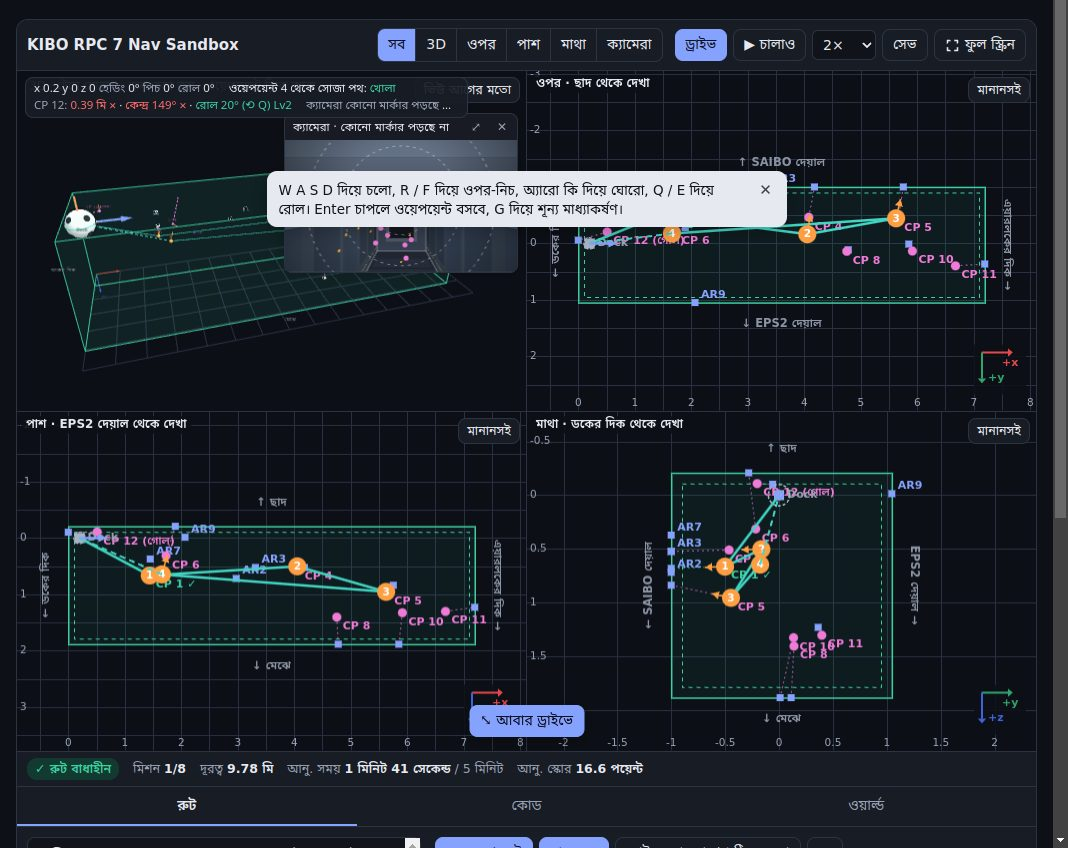
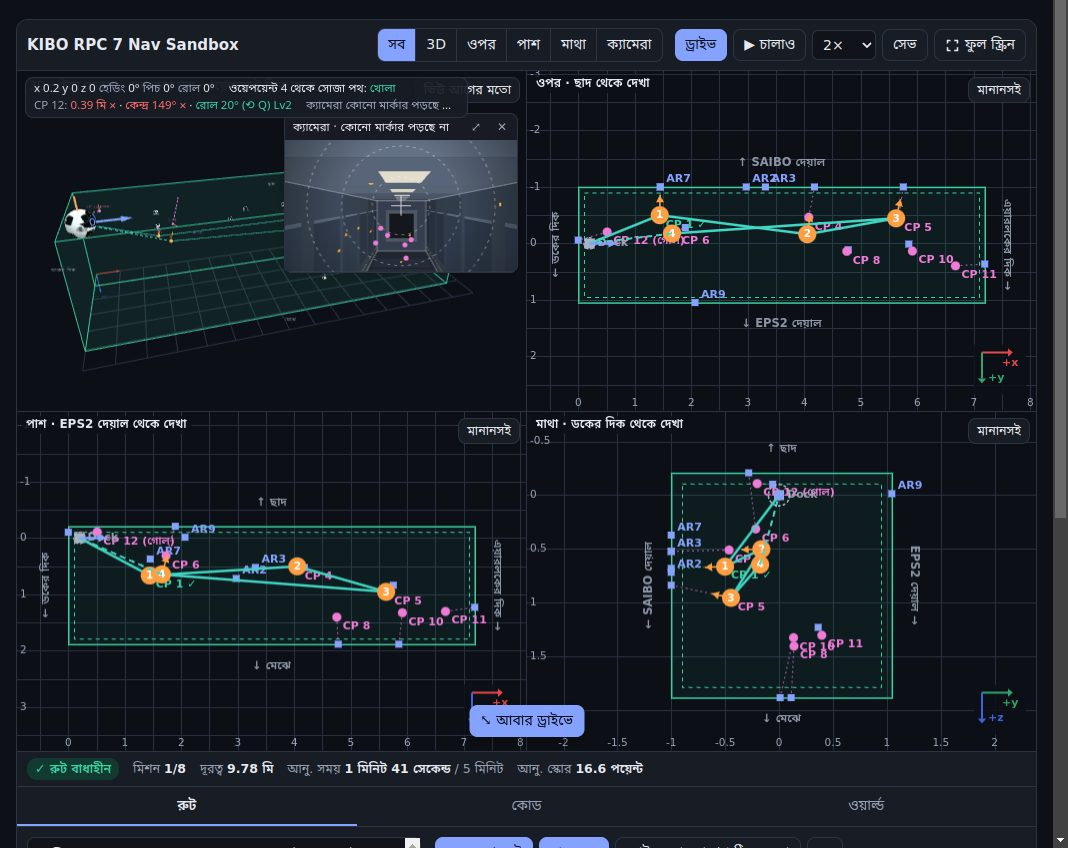
Robots rebuilt after the real Int-Ball2 and Astrobee

Changed region(s): [[0.2472, 0.184, 0.7416, 0.2759], [0.0618, 0.2453, 0.0927, 0.2759]]

diff --git a/robots.html b/robots.html
@@ -256,8 +256,8 @@
         <ol class="parts" id="parts"></ol>
       </div>
     </div>
-    <p class="note bn">3D মডেলগুলো আমাদের নিজেদের সহজ নকশা, আসল রোবটের চেহারা নয়: প্রকাশিত বর্ণনা আর ছবি দেখে আসল রোবটের কোন অংশ কোথায় থাকে তা দেখানো হয়েছে; মাপগুলো মোটামুটি অনুপাতে। রঙের মানে: <span class="chip cam">ক্যামেরা</span> <span class="chip sense">সেন্সর আর মস্তিষ্ক</span> <span class="chip move">চলাফেরা আর শক্তি</span> <span class="chip body">বডি আর মানুষের সঙ্গে যোগাযোগ</span></p>
-    <p class="note en" lang="en">The 3D models are our own simplified designs, not what the real robots look like: they show where each part of the real robot goes (from the published descriptions and diagrams), and sizes are only roughly to scale. Colours: <span class="chip cam">camera</span> <span class="chip sense">sensing &amp; brain</span> <span class="chip move">moving &amp; power</span> <span class="chip body">body &amp; people</span></p>
+    <p class="note bn">3D মডেলগুলো NASA-র প্রকাশ্য ছবি আর প্রকাশিত বর্ণনা দেখে বানানো সহজ নকশা, অফিশিয়াল CAD মডেল নয়; মাপগুলো মোটামুটি অনুপাতে। রঙের মানে: <span class="chip cam">ক্যামেরা</span> <span class="chip sense">সেন্সর আর মস্তিষ্ক</span> <span class="chip move">চলাফেরা আর শক্তি</span> <span class="chip body">বডি আর মানুষের সঙ্গে যোগাযোগ</span></p>
+    <p class="note en" lang="en">The 3D models are simplified sketches built from NASA's public photos and the published descriptions and diagrams, not official CAD models; sizes are only roughly to scale. Colours: <span class="chip cam">camera</span> <span class="chip sense">sensing &amp; brain</span> <span class="chip move">moving &amp; power</span> <span class="chip body">body &amp; people</span></p>
   </section>
 <div class="bn">
 
@@ -793,26 +793,26 @@
   // Parts: pos = where the number sits (model units), n = which way that spot faces, inside = no facing check.
   // Int-Ball2's, in the page's language, come from the shared bundle.
   var NS = window.KiboNavSandbox;
-  // The ball: radius 1 = about 10 cm. The pod: 2 wide. Front is +z, up is +y, the robot's left is +x.
+  // Int-Ball2: radius 1 = about 10 cm. Astrobee: half-width 1 = 16 cm. Front is +z, up is +y, the robot's left is +x.
   var ROBOTS = {
     ib2: {
       name: 'Int-Ball2', dist: 4.7,
       parts: NS ? NS.ballParts() : [] // from dist/kibo-nav-sandbox.js
     },
     ab: {
-      name: 'Astrobee', dist: 7.6,
+      name: 'Astrobee', dist: 6.7,
       parts: [
-        { id: 'navcam', kind: 'cam', name: 'NavCam', pos: [-0.38, 0.2, 1.22], n: [-0.45, 0.42, 0.78], text: 'A wide-angle camera that spots features of the ISS and matches them to a map, so Astrobee knows where it is.' },
-        { id: 'scicam', kind: 'cam', name: 'SciCam', pos: [0, 0.2, 1.33], n: [0, 0.45, 0.9], text: 'An HD colour camera with autofocus, for live video to the ground.' },
-        { id: 'hazcam', kind: 'cam', name: 'HazCam', pos: [0.38, 0.2, 1.22], n: [0.45, 0.42, 0.78], text: 'A depth camera (time of flight): instead of colours it measures how far away things are, to avoid obstacles.' },
-        { id: 'speedcam', kind: 'sense', name: 'SpeedCam', pos: [0.5, -0.15, 1.16], n: [0.59, -0.32, 0.74], text: 'Measures how fast Astrobee moves: a small optical-flow camera with a laser distance sensor and its own processor (a modified PX4FLOW).' },
-        { id: 'people', kind: 'body', name: 'Screen, lights, laser', pos: [-0.12, -0.32, 1.24], n: [-0.14, -0.64, 0.75], text: 'A touch screen, speaker and microphone, signal lights, a laser pointer and a flashlight, so astronauts can see what it is doing and it can point things out.' },
-        { id: 'prop', kind: 'move', name: 'Fan modules and nozzles', pos: [1.3, 0.15, 0.6], n: [0.5, 0.1, 1], text: 'Two side modules, each with a fan (impeller) that fills it with air. Twelve adjustable nozzles let the air out to push and turn it any way: at least 0.6 N forward and 0.3 N sideways.' },
-        { id: 'dockcam', kind: 'cam', name: 'DockCam', pos: [-0.3, 0.2, -1.26], n: [-0.36, 0.43, -0.82], text: 'Looks backwards and finds the AR markers on the dock, so Astrobee can back in and recharge by itself.' },
-        { id: 'perchcam', kind: 'cam', name: 'PerchCam', pos: [0.3, 0.2, -1.26], n: [0.36, 0.43, -0.82], text: 'A second depth camera, facing back. It finds ISS handrails for the arm to grab.' },
-        { id: 'arm', kind: 'move', name: 'Perching arm', pos: [0, -0.8, -0.85], n: [0, -1, -0.3], text: 'A two-joint arm with a gripper. It grabs a handrail so Astrobee can hold still and save power, and it can tilt and turn the robot like a camera mount.' },
-        { id: 'bump', kind: 'body', name: 'Corner bumpers', pos: [1.3, 0, -0.68], n: [0.5, 0, -1], text: 'Soft bumpers protect the robot and the station. With them, Astrobee fits in a 32 cm cube.' },
-        { id: 'bays', kind: 'body', name: 'Payload bays', pos: [0, 0.78, 0], n: [0, 1, 0.1], text: 'Three bays give experiment hardware power and data.' },
+        { id: 'navcam', kind: 'cam', name: 'NavCam', pos: [0.3, 0.44, 0.94], n: [0, 0, 1], text: 'A wide-angle camera that spots features of the ISS and matches them to a map, so Astrobee knows where it is.' },
+        { id: 'scicam', kind: 'cam', name: 'SciCam', pos: [-0.03, 0.61, 0.94], n: [0, 0, 1], text: 'An HD colour camera with autofocus, for live video to the ground.' },
+        { id: 'hazcam', kind: 'cam', name: 'HazCam', pos: [-0.19, 0.46, 0.94], n: [0, 0, 1], text: 'A depth camera (time of flight): instead of colours it measures how far away things are, to avoid obstacles.' },
+        { id: 'speedcam', kind: 'sense', name: 'SpeedCam', pos: [0.39, 0.22, 0.94], n: [0, 0, 1], text: 'Measures how fast Astrobee moves: a small optical-flow camera with a laser distance sensor and its own processor (a modified PX4FLOW).' },
+        { id: 'people', kind: 'body', name: 'Screen, lights, laser', pos: [-0.01, -0.07, 0.94], n: [0, 0, 1], text: 'A touch screen, speaker and microphone, signal lights, a laser pointer and a flashlight, so astronauts can see what it is doing and it can point things out.' },
+        { id: 'prop', kind: 'move', name: 'Fan modules and nozzles', pos: [1.03, 0, 0], n: [1, 0, 0], text: 'Two side modules, each with a fan (impeller) that fills it with air. Twelve adjustable nozzles let the air out to push and turn it any way: at least 0.6 N forward and 0.3 N sideways.' },
+        { id: 'dockcam', kind: 'cam', name: 'DockCam', pos: [-0.3, 0.45, -0.95], n: [0, 0, -1], text: 'Looks backwards and finds the AR markers on the dock, so Astrobee can back in and recharge by itself.' },
+        { id: 'perchcam', kind: 'cam', name: 'PerchCam', pos: [0.3, 0.45, -0.95], n: [0, 0, -1], text: 'A second depth camera, facing back. It finds ISS handrails for the arm to grab.' },
+        { id: 'arm', kind: 'move', name: 'Perching arm', pos: [0, -0.6, -1.05], n: [0, -0.3, -1], text: 'A two-joint arm with a gripper. It grabs a handrail so Astrobee can hold still and save power, and it can tilt and turn the robot like a camera mount.' },
+        { id: 'bump', kind: 'body', name: 'Corner bumpers', pos: [0.94, 1.1, 1.02], n: [1, 1, 1], text: 'Soft bumpers protect the robot and the station. With them, Astrobee fits in a 32 cm cube.' },
+        { id: 'bays', kind: 'body', name: 'Payload bays', pos: [0, 0.97, 0.35], n: [0, 1, 0.25], text: 'Three bays give experiment hardware power and data.' },
         { id: 'inside', kind: 'sense', name: 'Inside: computers, IMU, batteries', pos: [0, 0, 0], n: [0.2, 0.45, 1], inside: true, text: 'Three processors (LLP, MLP and HLP; the HLP runs Android for guest-science apps), an IMU, and up to four batteries for about two hours of flying.' }
       ]
     }
@@ -857,7 +857,7 @@
   function disc(r, depth, color, o) { var g = new THREE.CylinderGeometry(r, r, depth, 32); g.rotateX(Math.PI / 2); return new THREE.Mesh(g, mat(color, o)); }
   function norm(v) { var l = Math.hypot(v[0], v[1], v[2]); return [v[0] / l, v[1] / l, v[2] / l]; }
 
-  // The ball's model comes from dist/kibo-nav-sandbox.js (src/element/robots.ts).
+  // The models come from dist/kibo-nav-sandbox.js (src/element/robots.ts).
   function buildIb2() {
     var m = window.KiboNavSandbox.buildBall(THREE);
     shells.push.apply(shells, m.shells);
@@ -865,9 +865,9 @@
     return m.group;
   }
 
-  // The cube's model, from the same file.
+  // Astrobee's, from the same file.
   function buildAb() {
-    var m = window.KiboNavSandbox.buildPod(THREE);
+    var m = window.KiboNavSandbox.buildCube(THREE);
     shells.push.apply(shells, m.shells);
     spinners.push.apply(spinners, m.spinners);
     return m.group;
